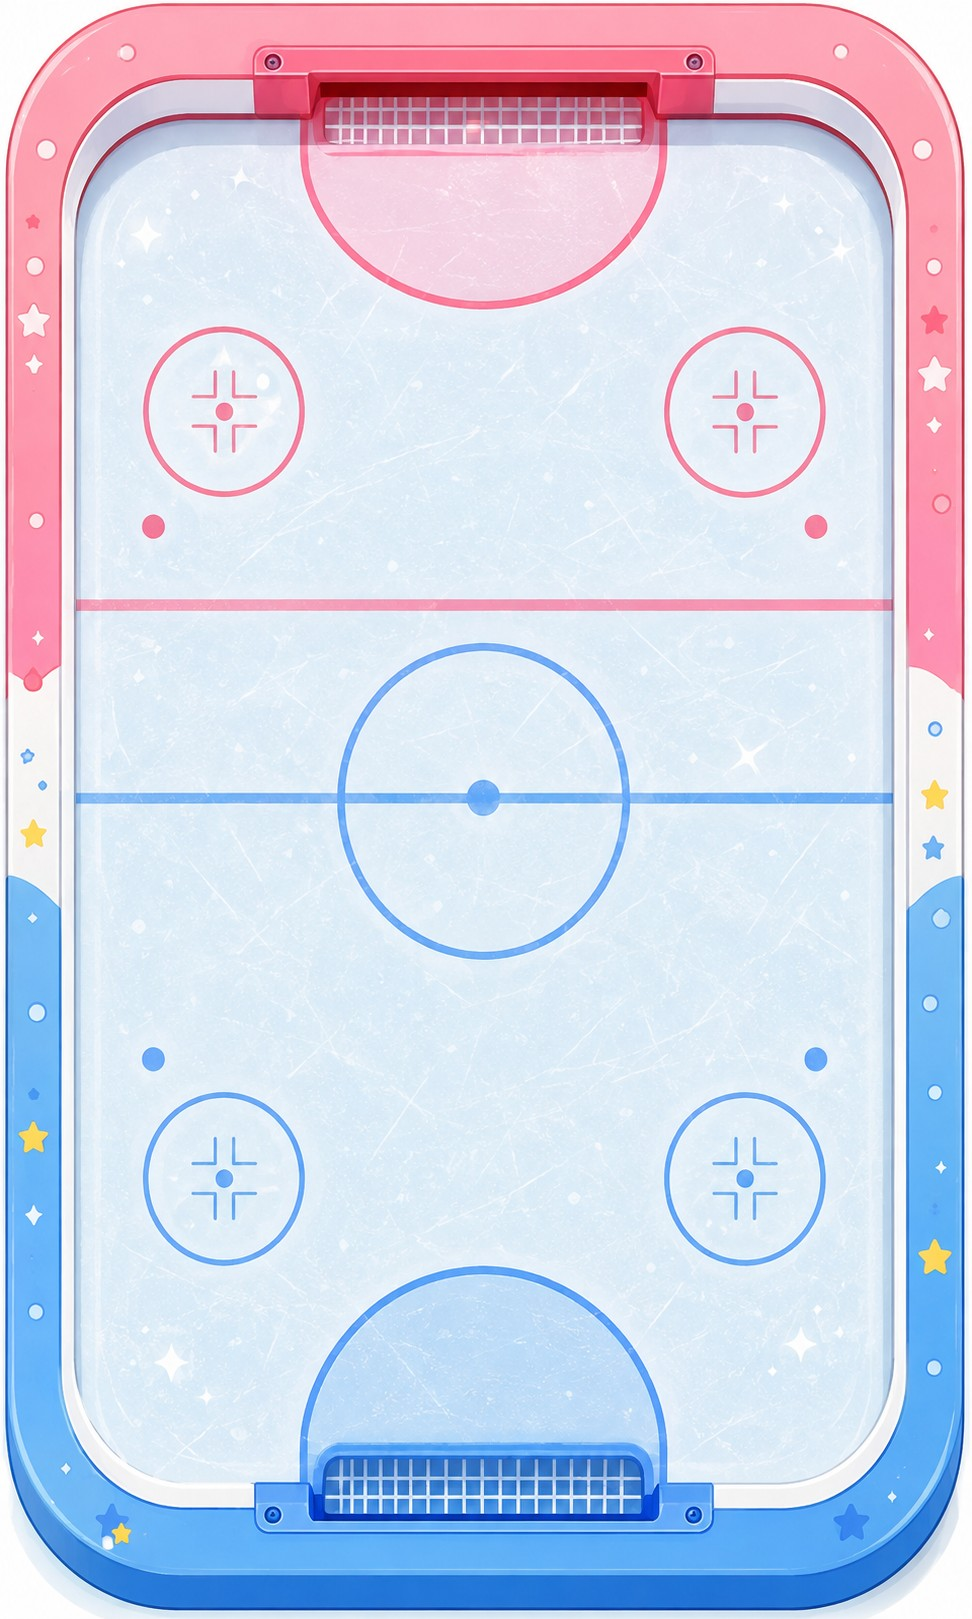
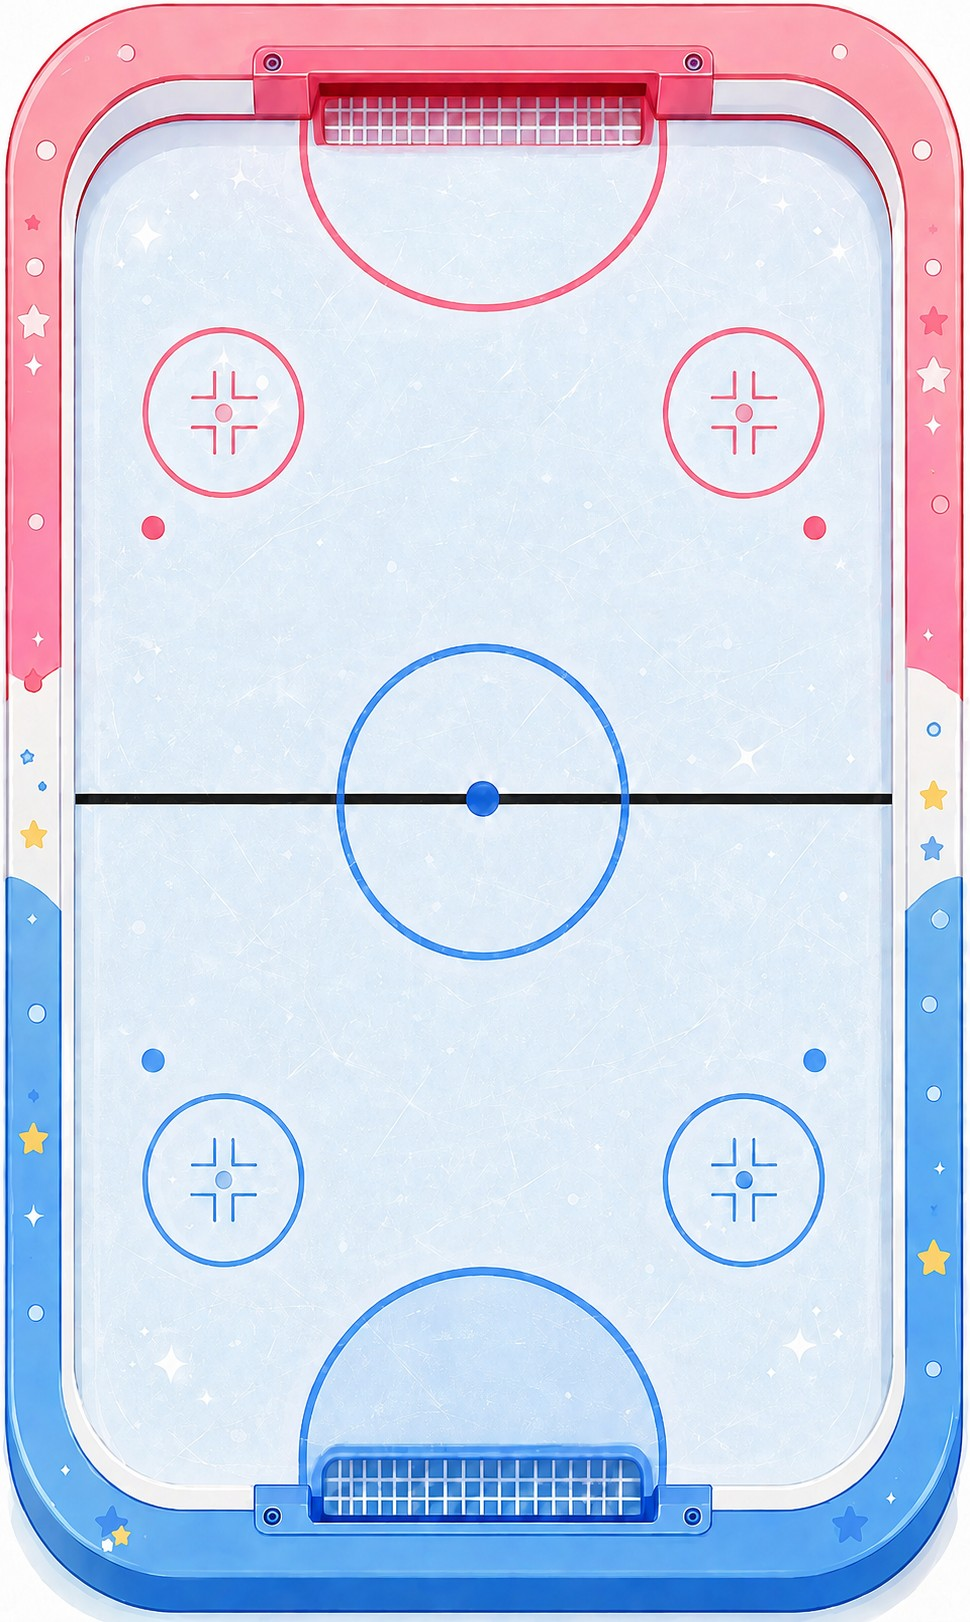
盤面の絵を差し替え、壁の位置と当たりの強さを調整
- 対戦画面の盤面を新しい絵に差し替え、壁とゴールの位置を測り直した
- 壁の当たり判定を氷のふちではなく壁ぎわまで寄せ、絵と合うようにした
- センターラインの位置を FLD.mid で指定できるようにした。
  絵の上下が対称でなくても、描かれた線どおりに陣地を分けられる
- 止まっている／ゆっくり動かしているマレットに当たったときは
  ほとんど弾まないようにした（反発をマレットの速さに応じて変える）

Claude-Session: https://claude.ai/code/session_01J1tKvnQEzfrTpRt6QKbNhq

diff --git a/index.html b/index.html
@@ -30,7 +30,7 @@
   'use strict';
 
   // 更新したら必ずここと sw.js の CACHE を上げる
-  var APP_VERSION = '2.2.0';
+  var APP_VERSION = '2.3.0';
 
   var cvs = document.getElementById('g');
   var ctx = cvs.getContext('2d');
@@ -105,8 +105,10 @@
   function titleBgm()  { playBgm('title',  'title.mp3',  0.5); }
   function battleBgm() { playBgm('battle', 'battle.mp3', 0.4); }
 
-  // field.jpg (972x1619) の中での氷の範囲とゴールの幅（画像サイズに対する割合）
-  var FLD = { x0:0.089, x1:0.910, y0:0.0927, y1:0.8968, goal:0.168, circle:0.0945 };
+  // field.jpg (970x1622) の中での氷の範囲・ゴールの幅・センターラインの位置
+  // （すべて画像サイズに対する割合）
+  var FLD = { x0:0.0680, x1:0.9278, y0:0.0826, y1:0.9223,
+              mid:0.4926, goal:0.1629, circle:0.093 };
   var F = { x:0, y:0, w:0, h:0, cx:0, cy:0 };   // 盤面（氷）の位置
   var IMG  = { x:0, y:0, w:0, h:0 };            // field.jpg を描く位置
   var TIMG = { x:0, y:0, w:0, h:0 };            // title-bg.jpg を描く位置
@@ -188,7 +190,7 @@
     F.x = IMG.x + FLD.x0 * IMG.w;  F.w = (FLD.x1 - FLD.x0) * IMG.w;
     F.y = IMG.y + FLD.y0 * IMG.h;  F.h = (FLD.y1 - FLD.y0) * IMG.h;
     F.cx = F.x + F.w / 2;
-    F.cy = F.y + F.h / 2;
+    F.cy = IMG.y + FLD.mid * IMG.h;   // 絵に描かれたセンターラインに合わせる
 
     var s = Math.min(F.w, F.h * 0.62);           // 大きさの基準
     puck.r = s * 0.058;
@@ -658,10 +660,14 @@
     puck.x = m.x + nx * min;
     puck.y = m.y + ny * min;
 
+    // マレットが動いているほどよく弾む（止まっていればほとんど弾まない）
+    var mSpeed = Math.sqrt(m.vx * m.vx + m.vy * m.vy);
+    var e = 0.35 + 0.35 * Math.min(1, mSpeed / (0.9 * F.w));
+
     var rvx = puck.vx - m.vx, rvy = puck.vy - m.vy;
     var vn = rvx * nx + rvy * ny;
     if (vn < 0) {
-      var j = -(1 + 0.92) * vn;
+      var j = -(1 + e) * vn;
       puck.vx += nx * j;
       puck.vy += ny * j;
     }

diff --git a/sw.js b/sw.js
@@ -1,6 +1,6 @@
 /* オフラインでも遊べるようにキャッシュする。
    中身を更新したら CACHE の番号と index.html の APP_VERSION を必ず上げること。 */
-var CACHE = 'hockey-v9';
+var CACHE = 'hockey-v10';
 
 var ASSETS = [
   './',

diff --git a/README.md b/README.md
@@ -17,7 +17,8 @@
 - ふたりのときは2人同時に指を動かせます（マルチタッチ対応）
 - ゴールが決まると「**ゴール！**」が飛び出し、ゴール口から光がはじけます
 - ゴールのあとは、**点を入れられた方**からパックが転がって再開します
-- **そっと当てればゆっくり、強く打てば速く**飛びます。音と振動も強さに応じて変わります
+- **そっと当てればゆっくり、強く打てば速く**飛びます。音と振動も強さに応じて変わります。
+  止まっているマレットに当たったときは、あまり弾みません
 - パックが壁とマレットに挟まったときは、真ん中へ逃がします（連続で壁にぶつかり続けません）
 - 途中でスコアを0に戻したいときは、左はしの「↺」を**長押し**
   （子どもが誤って触らないよう、短いタップでは戻りません）
@@ -71,7 +72,7 @@
 
 ## バージョンと自動更新
 
-タイトル画面の**左下に小さくバージョン**が出ます（例 `v2.2.0`）。
+タイトル画面の**左下に小さくバージョン**が出ます（例 `v2.3.0`）。
 更新したかどうかは、ここを見れば分かります。
 
 更新はできるだけ早く届くようにしてあります。
@@ -92,7 +93,7 @@
 | ファイル | 場所 |
 | --- | --- |
 | `index.html` | `APP_VERSION`（画面左下に出る番号） |
-| `sw.js` | `CACHE`（`hockey-v9` の数字） |
+| `sw.js` | `CACHE`（`hockey-v10` の数字） |
 
 ## 中身
 
@@ -121,8 +122,12 @@
 盤面の画像を差し替えるときは、ここも合わせて直してください。
 
 ```js
-var FLD = { x0:0.089, x1:0.910, y0:0.0927, y1:0.8968, goal:0.168, circle:0.0945 };
-//          ← 氷の左端  右端     上端       下端        ゴールの半分の幅  センターサークルの半径
+var FLD = { x0:0.0680, x1:0.9278, y0:0.0826, y1:0.9223,
+            mid:0.4926, goal:0.1629, circle:0.093 };
+// x0/x1/y0/y1 … 壁の位置（氷のふちではなく、壁ぎわに寄せてある）
+// mid          … センターラインの位置。絵の真ん中とずれていてもここで合わせる
+// goal         … ゴールの半分の幅
+// circle       … センターサークルの半径（スコアの丸を置く位置に使う）
 ```
 
 `goal` はゴールの網の見た目とぴったり合わせてあります。広げすぎると、
